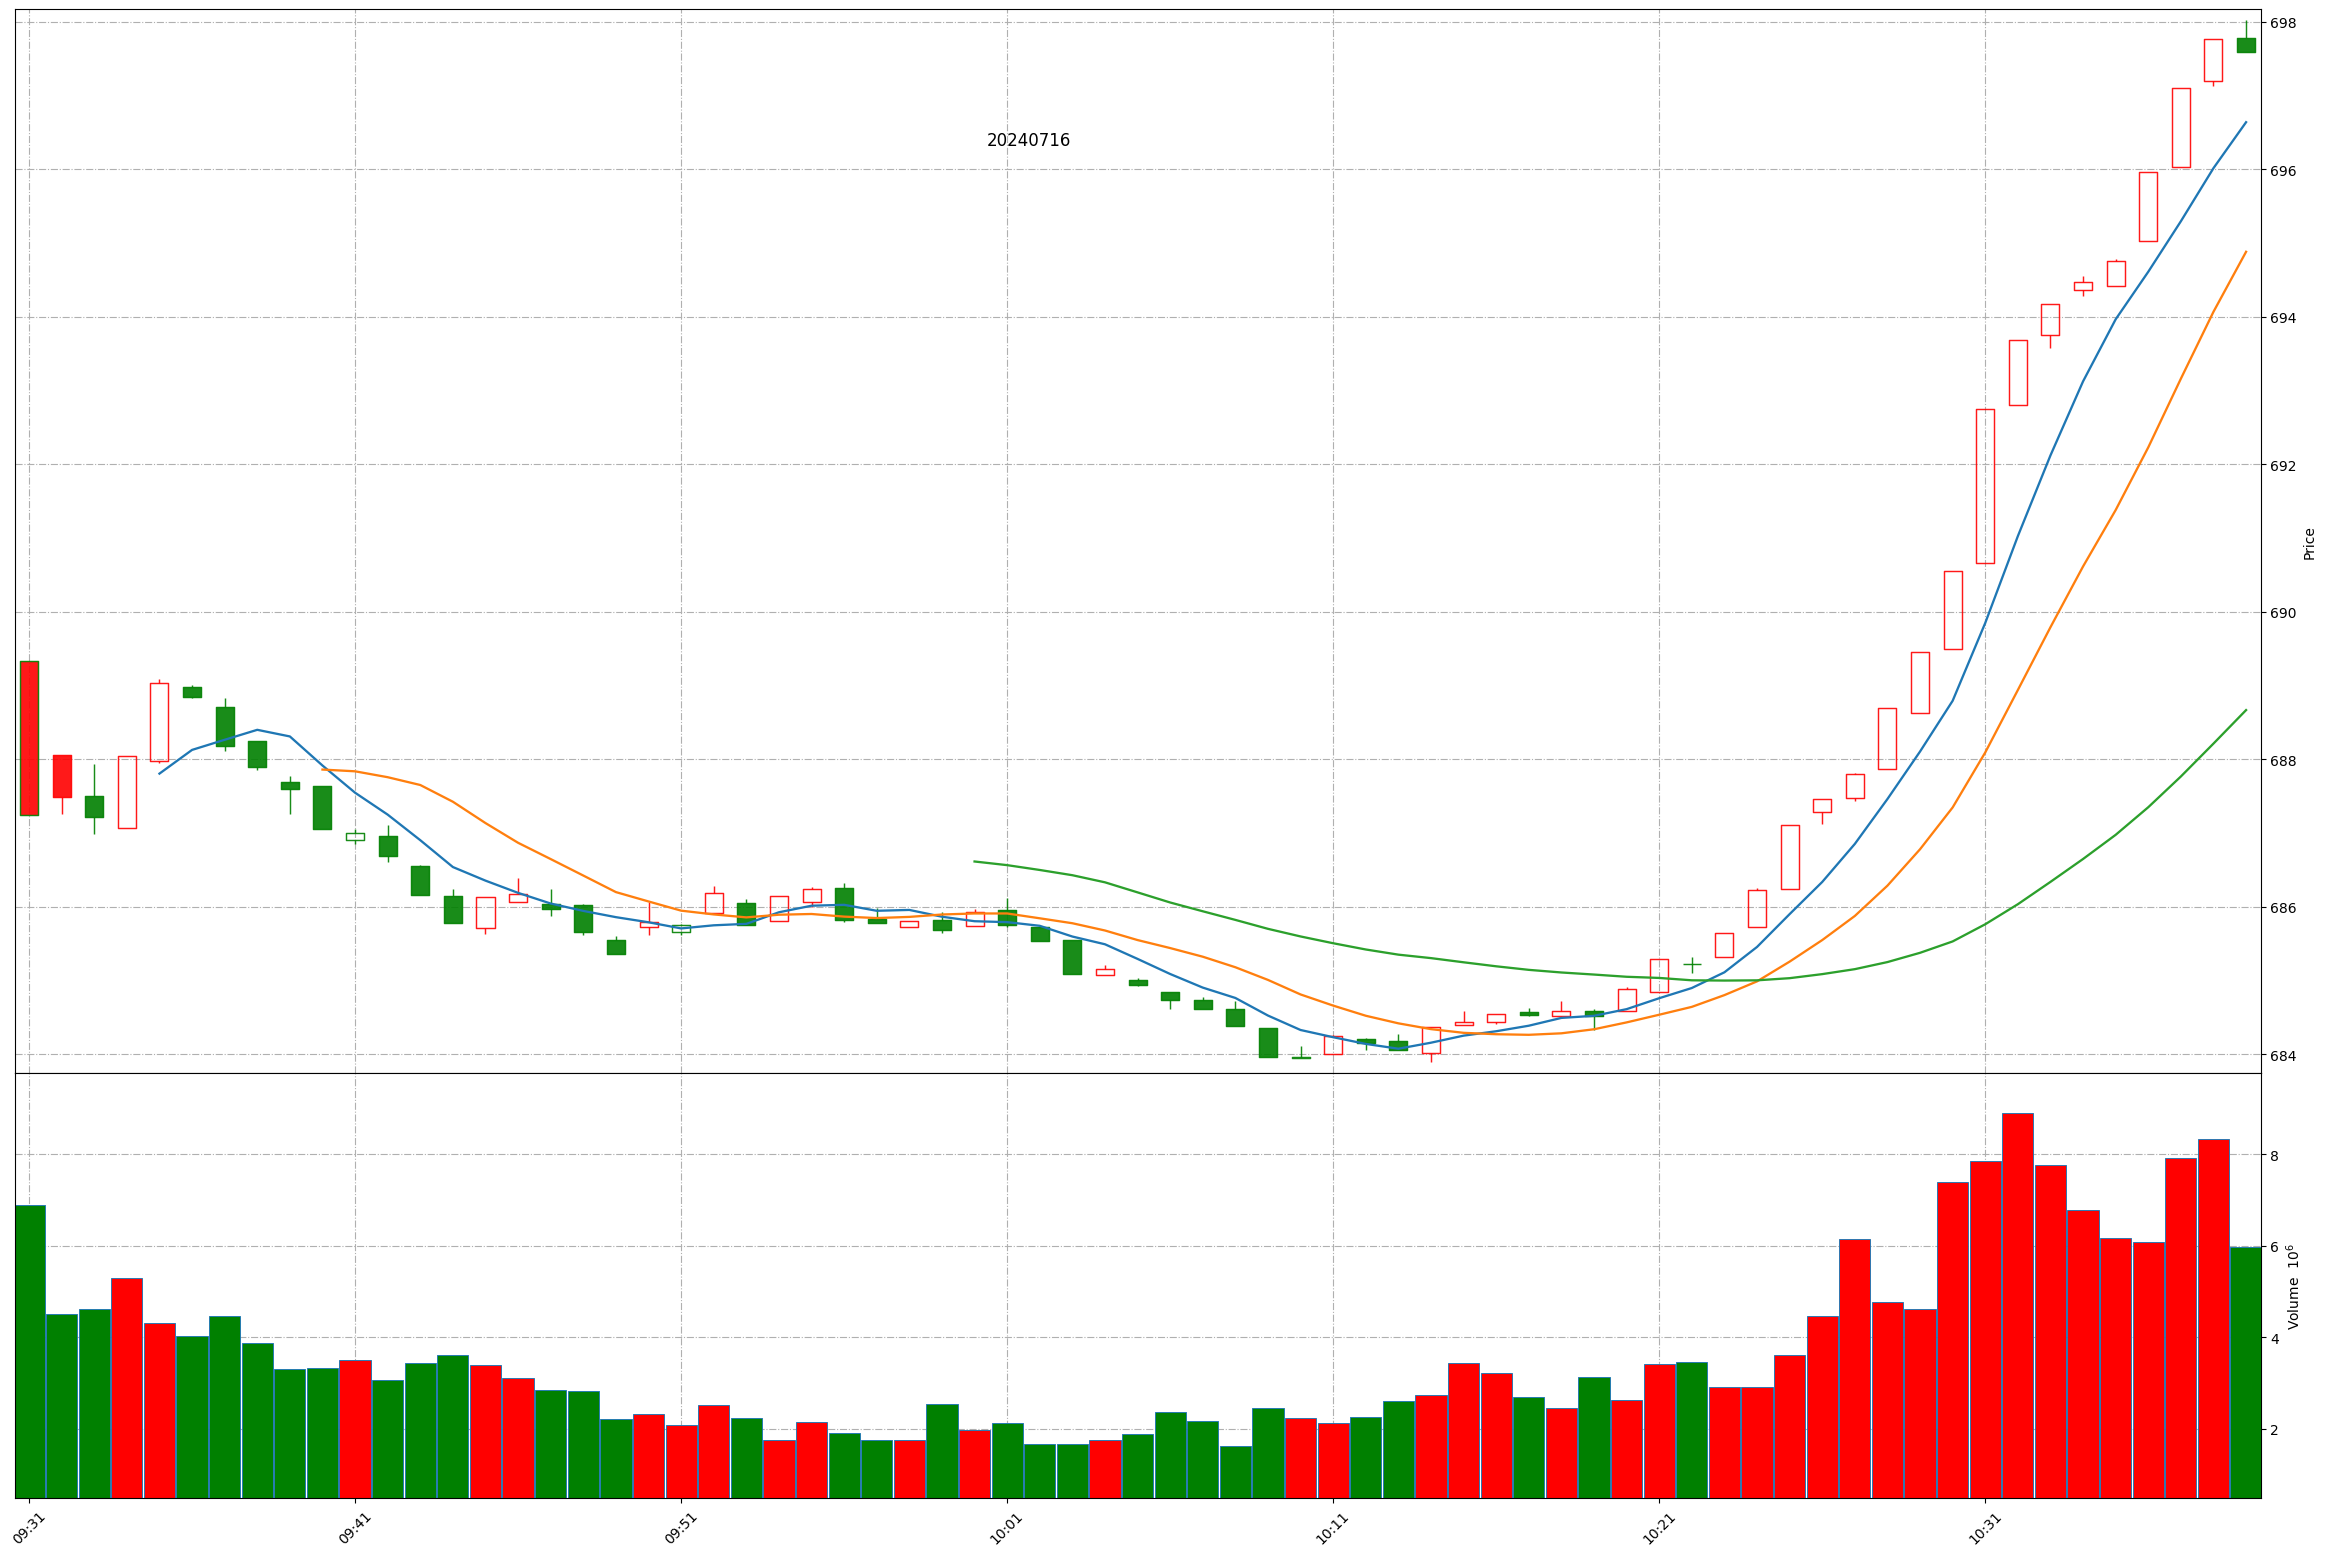
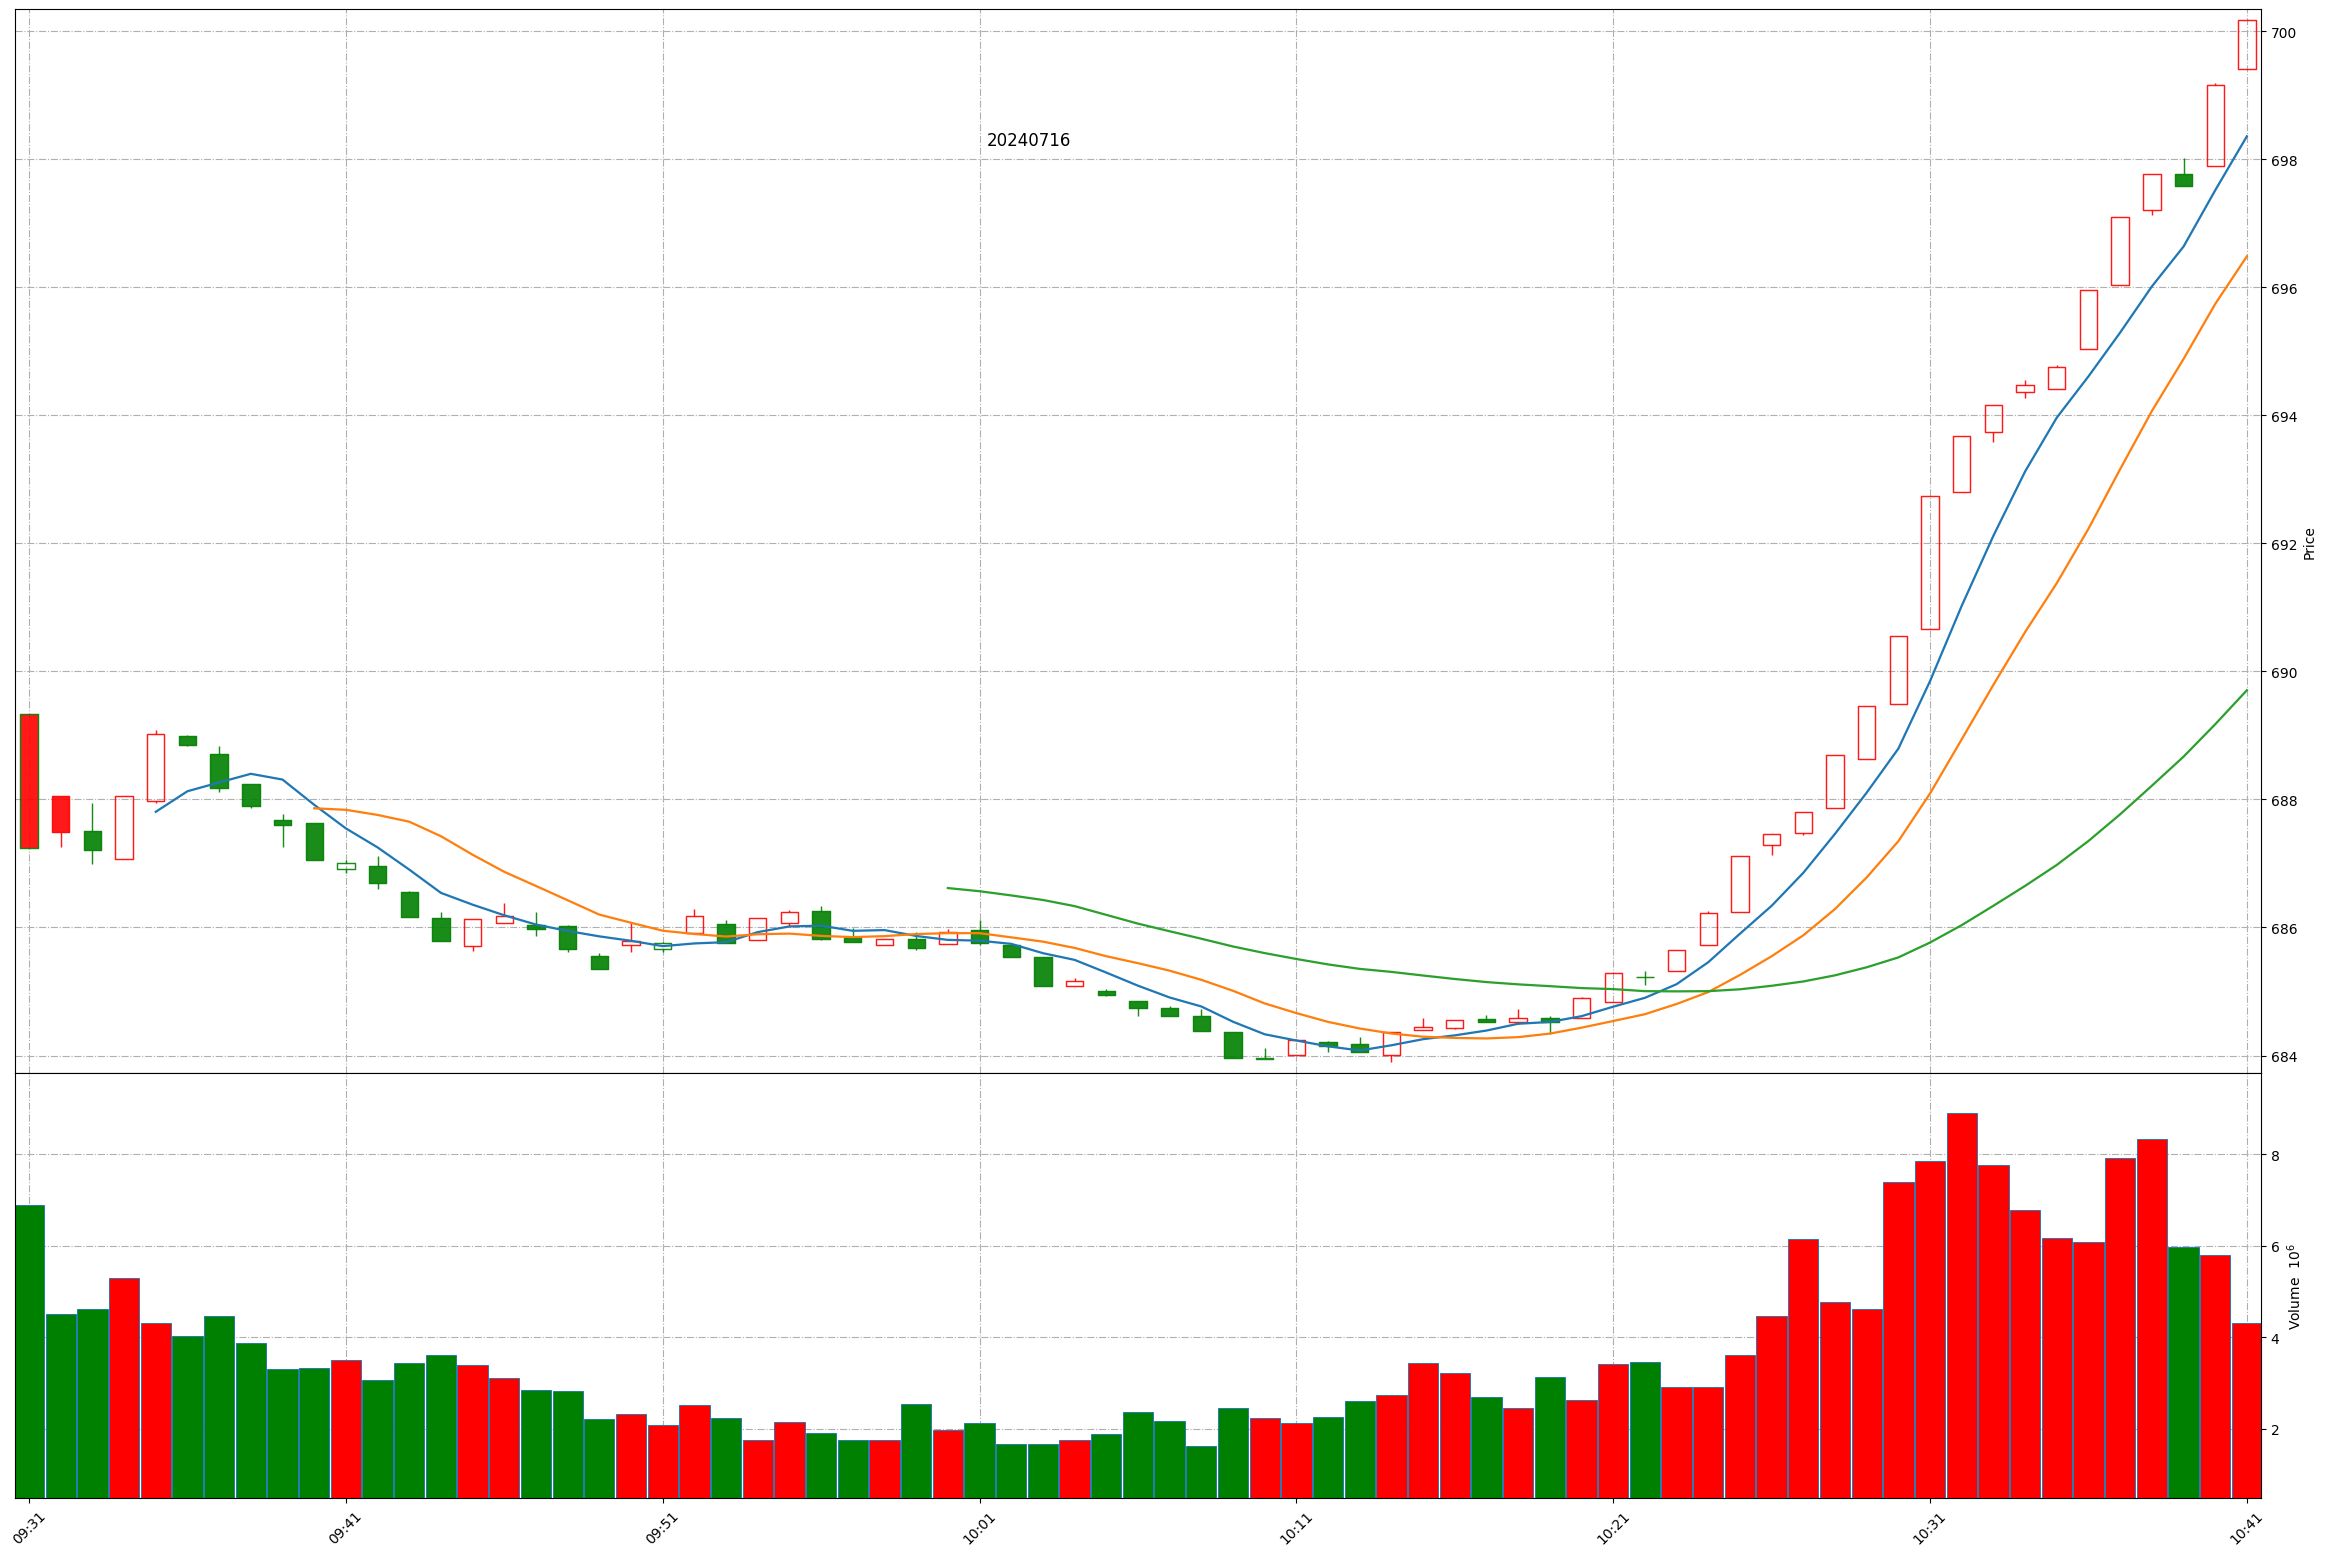
Github action update at 2024-07-16 10:41:00.

diff --git a/README.md b/README.md
@@ -1,11 +1,11 @@
 
 # Daily-A-share-market-quotes 每日 A 股指数（5min 更新）- 20240716
 
-### 上证指数 20240716 10:39
+### 上证指数 20240716 10:40
 ![](./fig/2024/7/20240716-sh000001.png)
 
-### 深证成指 20240716 10:39
+### 深证成指 20240716 10:40
 ![](./fig/2024/7/20240716-sz399001.png)
 
-### 北证50 20240716 10:39
+### 北证50 20240716 10:40
 ![](./fig/2024/7/20240716-bj899050.png)
